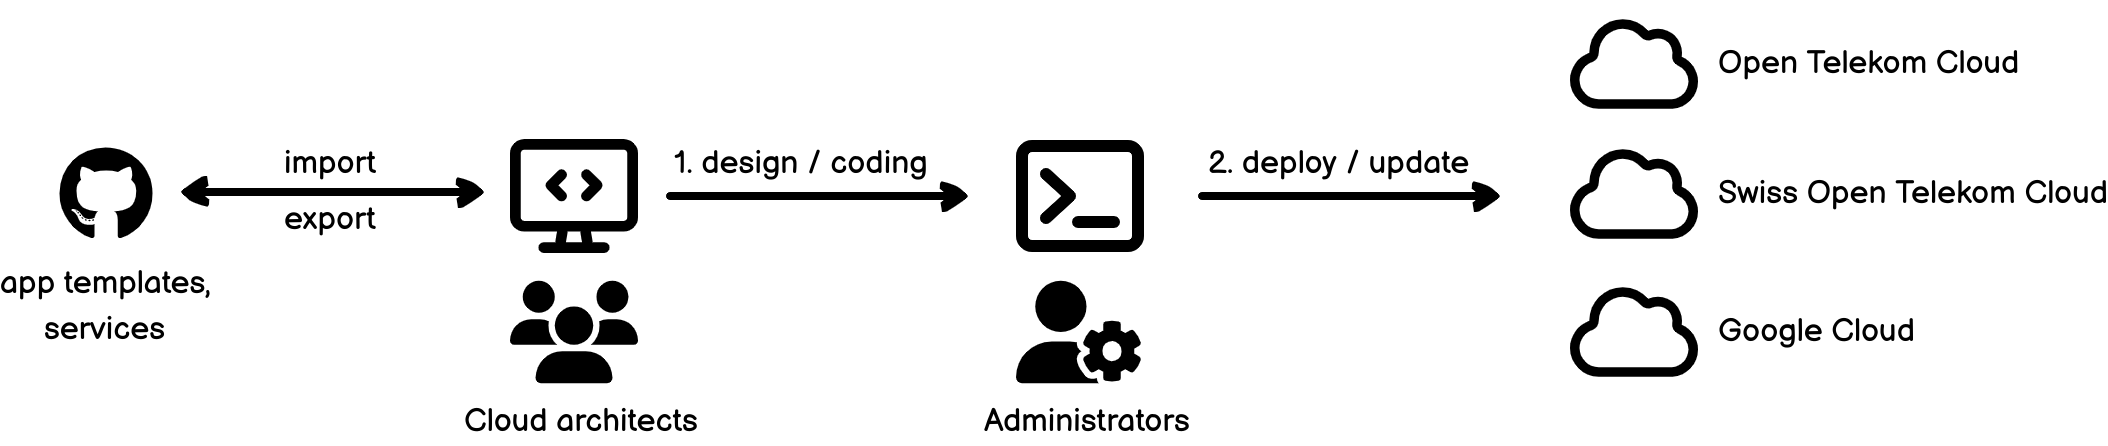
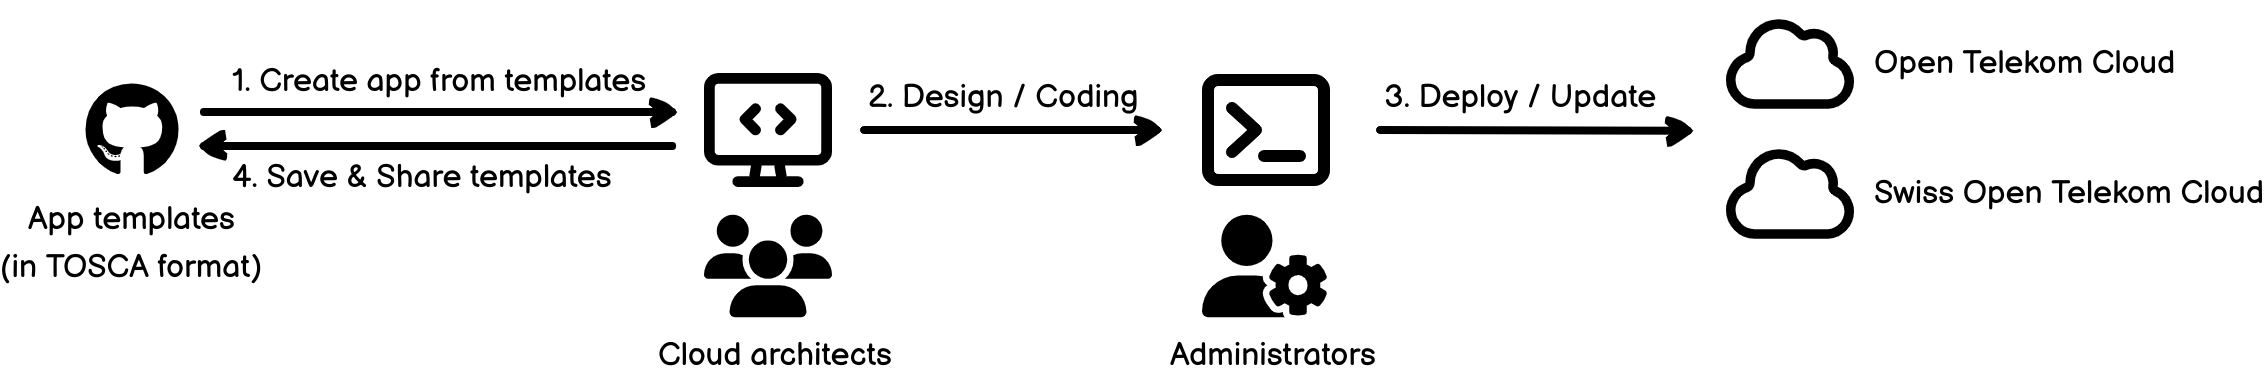
Update index page for premade template

Changed region(s): [[0.0, 0.0289, 1.0, 0.8684], [0.2158, 0.8974, 0.4009, 0.9842], [0.4625, 0.8974, 0.6167, 0.9842]]

diff --git a/umn/source/index.rst b/umn/source/index.rst
@@ -26,7 +26,12 @@ Quick introduction
 1. Overview
 ===========
 
-Cloud Create provides cloud developers a development and management platform to create applications on multi-cloud fast. In step 1, cloud architects design and develop the application for a tenant A. In step 2, an administrator of the tenant A deploys the application on Open Telekom Cloud, Swiss Cloud, and or Google Cloud.
+Cloud Create is a **free-to-use** Development and Management Platform, which enables cloud developers to create applications on Open Telekom Cloud **fast**.
+
+1. Cloud architects create applications from premade templates.
+2. They can visually design and adjust the application to fit their needs.
+3. An administrator deploys and updates the application on Open Telekom Cloud.
+4. Cloud architects can save a design as a private template for personal use or share it public with other users.
 
 .. figure:: /_static/images/features/overview.png
   :width: 900
@@ -35,57 +40,69 @@ Cloud Create provides cloud developers a development and management platform to 
 
 .. note::
   * Cloud architects and administrators can be the same user.
-  * Deployment on Swiss Open Telekom Cloud is an upcoming feature.
+  * Deployment on Swiss Open Telekom Cloud and the function "Save & Share templates" are upcoming features.
 
 1.1. How cloud architects design the application
 ------------------------------------------------
 
-Cloud architects can design the application either from scratch or from an **application template**. To design the application, they drag and drop the components together like lego bricks as in the following example:
+Cloud architects can design the application from scratch or from **premade templates**:
+
+.. figure:: /_static/images/features/overview-templates.png
+  :width: 800
+
+  Figure 2. Select an app template to start.
+
+They can quickly deploy a template or start a new design from it:
+
+.. figure:: /_static/images/features/overview-templates2.png
+  :width: 800
+
+  Figure 3. Quick deploy OpenShift or Design using this template.
+
+Cloud Create also comes up with a visual designer for less-coding or no-coding. Developers can drag and drop the components together like lego bricks as in the following example:
 
 .. figure:: /_static/images/features/overview-design.png
   :width: 800
 
-  Figure 2. An application topology with network, compute, ansible, bash scripts, and Grafana component.
+  Figure 4. An application example with network, compute, ansible, bash scripts, and Grafana component.
 
-* In the above example, (public/private) network and compute are **infrastructure components**. AnsibleTasks, Bash, and Grafana are **service components**.
-* By using the Ansible and Bash components, cloud architects can write code to install softwares on a compute directly. Grafana is a ready-to-use deployable software solution.
-* All components are provided by Open Telekom Cloud upon feature requests. In addition, users can define service components in TOSCA (i.e., a YAML file format) and import them to the designer. This import feature enables a **dynamic integration** with any software solutions (e.g., Grafana) and external SaaS with Open Telekom Cloud. More details on Section :ref:`How to define and import and a new service`.
+* In the above example, the network and compute are **infrastructure** components. AnsibleTasks, Bash, and Grafana are **service** components.
+* By using the Ansible and Bash components, developers can write code to execute on a compute directly.
+* Grafana is an example of a ready-to-use service available in the designer. Developers can define new services and import them to the designer as well. More details on Section :ref:`How to define and import and a new service`.
 
 .. note::
-   * All service components are `opensource and available on our Github <https://github.com/opentelekomcloud-blueprints/tosca-service-catalogs>`_.
+   * App templates and service components are `opensource and available on our Github <https://github.com/opentelekomcloud-blueprints/tosca-service-catalogs>`_.
 
 1.2. How administrators deploy the application
 ----------------------------------------------
 
-Before the deployment can start, administrators select a **Version**, provide deployment **Inputs**, which were designed by the cloud architects, and select a cloud provider (e.g., Open Telekom Cloud) to deploy. In addition, the workflow to deploy the components are auto-generated and ready for administrators to review.
+Before the deployment can start, administrators select a **Version**, provide **Inputs**, which were designed by the cloud architects, and select a cloud provider (e.g., Open Telekom Cloud) to deploy. In addition, administrators can review the auto-generated workflow before it starts.
 
 .. figure:: /_static/images/features/overview-deploy.png
   :width: 800
 
-  Figure 3. Administrators select Open Telekom Cloud (OTC) to deploy
+  Figure 5. Administrators select Open Telekom Cloud (OTC) to deploy
 
-During the deployment, users can interactively click on a workflow step and see **Terraform** is applied for the infrastructure components. For the service components, the deployment script of the service (e.g., Ansible) is applied on the target compute.
+During the deployment, administrators can interactively click on a workflow step and see **Terraform** is applied for the infrastructure components. For the service components, the deployment script of the service (e.g., Ansible) is applied on the target compute.
 
 .. figure:: /_static/images/features/deployment_logs.png
   :width: 800
 
-  Figure 4. An example Terraform is generated and applied for a Compute
+  Figure 6. An example Terraform is generated and applied for a Compute
 
 2. Why Cloud Create?
 ====================
 
-The following table shows the differences between the web console and the marketplaces of any cloud providers:
+The following table shows the differences between the Web console / other tools and Cloud Create:
 
 .. figure:: /_static/images/features/features_compare.png
   :width: 800
 
-  Figure 5. Features comparison
+  Figure 7. Features comparison
 
-Both the web console, marketplace, and Cloud Create can deploy one cloud service. However, an application nowadays consists of multiple cloud services but not just one. Furthermore, each application has individual needs to adapt to the cloud differently. The web console and marketplace can bring up one service up and running separately but cannot automate an application with multiple services.
+Both the Web console and Cloud Create can deploy one cloud service. However, an application nowadays consists of multiple cloud services but not just one. Furthermore, each application has individual needs to adapt to the cloud differently. The Web console can bring up one service up and running separately but cannot automate an application with multiple services.
 
 With Cloud Create, after creating an application from a template, you can modify the application to fit your individual needs. For example, one of our customer used Cloud Create to create their application from the OpenShift template, then they added a worker node with the GPU capability and wrote an Ansible script to deploy packages on the bastion host, etc. The given example shows that the modification can happen in every corner, from the cloud infrastructure to the software layer of your application. Finally, you can run update between versions on operation day 2 as well. To update between versions, Cloud Create auto-calculates the differences between the two versions and auto-generates the update workflow steps from one version to other one.
-
-In short, Cloud Create manages the whole life cycle of an application: from design, adaptation, to deploy, and update.
 
 3. New features
 ===============
@@ -95,20 +112,15 @@ OpenShift template (v2.13)
 
 Users can create a `Self-managed OpenShift Container Platform <https://www.redhat.com/en/technologies/cloud-computing/openshift/container-platform>`_ on Open Telekom Cloud from the :ref:`OpenShift`.
 
-.. figure:: /_static/images/features/openshift.png
-  :width: 800
-
-  Figure 6. OpenShift template
-
 4. FAQ
 ======
 
-4.1. What are the differences between Cloud Create and the web console
+4.1. What are the differences between Cloud Create and the Web console
 ----------------------------------------------------------------------
 
-With the `web console <https://console.otc.t-systems.com>`_, users can only create the cloud **infrastructure** manually. It means, they can create a network, a storage, a VM separately but without automation.
+With the `Web console <https://console.otc.t-systems.com>`_, users can only create the cloud infrastructure manually. It means, they can create a network, a storage, a VM separately but without automation.
 
-On the other hand, Cloud Create enables developers to design and automate the deployment of the whole application, which includes the cloud infrastructure and the **services** (i.e., not just the cloud infrastructure). In addition, developers can design the application in various versions and run update between them. Finally, Cloud Create provides application templates (e.g., OpenShift) to re-use and extend.
+On the other hand, Cloud Create enables developers to design and automate the deployment of the whole application including the cloud infrastructure and services. In addition, developers can design the application in various versions and run update between them. Finally, Cloud Create provides premade templates (e.g., OpenShift) to re-use and extend.
 
 4.2. How can I login in to Cloud Create
 ---------------------------------------
@@ -117,8 +129,8 @@ You can log in to Cloud Create using an IAM user account with the **Tenant Admin
 
 If you do not have a user account in the IAM, see :ref:`How to login`.
 
-4.3. Which components are supported for Open Telekom Cloud and Google Cloud
----------------------------------------------------------------------------
+4.3. Which components are supported
+-----------------------------------
 
 An overview of all supported components is available in Section :ref:`Components overview`.
 
@@ -127,7 +139,7 @@ An overview of all supported components is available in Section :ref:`Components
 
 Cloud Create is based on two opensource projects Application Lifecycle Enablement for Cloud (Alien4cloud) and Ystia Orchestrator (Yorc). At Open Telekom Cloud, we further integrate it with OpenStack and Google Cloud, provide an easy-to-use UI, added features (e.g., secrets management, deployment update, OpenShift template, etc.), and enforce the strictest Privacy and Security Assessment (PSA) process of Deutsche Telekom.
 
-All application templates and service components are opensource and available on `our Github <https://github.com/opentelekomcloud-blueprints/tosca-service-catalogs>`_. You can create pull requests to add more components and fix bugs.
+All premade templates and service components are opensource and available on `our Github <https://github.com/opentelekomcloud-blueprints/tosca-service-catalogs>`_. You can create pull requests to add more components and fix bugs.
 
 4.5. Which Terraform version do you use
 ---------------------------------------

diff --git a/umn/source/register.rst b/umn/source/register.rst
@@ -8,14 +8,12 @@ How to create a user account & login
 ===============================
 
 * Go to: https://designer.otc-service.com
-* Login using an IAM user account with the **Tenant Administrator** role (*). This is the same credentials when you log in to the web console, **not the ICU account**.
+* Login using an IAM user account with the **Tenant Administrator** role. This is the same credentials when you log in to the web console, **not the ICU account**.
 
 .. figure:: /_static/images/register-login.png
   :width: 400
 
   Figure 1. Login to Cloud Create using domain name, username, and password
-
-.. note:: (*) To design and deploy the application, login with a user account with the role **Tenant Administrator**. Alternatively, if you only need to design the application, login with a user account with the role **Tenant Guest**. This is particular useful when you want a cloud architect to design the application for you but do not allow him or her to deploy anything in your tenant.
 
 You cannot login?
 -----------------
@@ -43,7 +41,7 @@ In case you do not have an IAM user account, please ask your domain administrato
 2.1. Create a project (optional, if you don't have one)
 -------------------------------------------------------
 
-* Login to the `web console <https://console.otc.t-systems.com>`_.
+* Login to the `Web console <https://console.otc.t-systems.com>`_.
 * Go to: **Identity Management**
 
 .. figure:: /_static/images/register-iam-button.png
@@ -90,8 +88,6 @@ In case you do not have an IAM user account, please ask your domain administrato
   :width: 900
 
   Figure 6. Select role Tenant Administrator for the group
-
-.. tip:: If you want a user to design the application for you but do not allow him or her to deploy anything in your project, select the role **Tenant Guest** instead.
 
 * In **Step 2. Select Scope**, choose **Region-specific projects**.
 * Search for the project `eu-de_test` and select it.

diff --git a/umn/source/releases.rst b/umn/source/releases.rst
@@ -4,6 +4,16 @@
 Releases
 ********
 
+OpenShift template (v2.13)
+--------------------------
+
+Users can create a `Self-managed OpenShift Container Platform <https://www.redhat.com/en/technologies/cloud-computing/openshift/container-platform>`_ on Open Telekom Cloud from the :ref:`OpenShift`.
+
+.. figure:: /_static/images/features/openshift.png
+  :width: 800
+
+  Figure 1. OpenShift template
+
 Deployment history (released in v2.12)
 --------------------------------------
 
@@ -12,4 +22,4 @@ Users can view deployment logs in the **History** so they can audit all actions 
 .. figure:: /_static/images/features/deployment_history.png
   :width: 800
 
-  Figure 7. Deployment history shows output of the Bash script 'HelloWorld' executed on a compute.
+  Figure 2. Deployment history shows output of the Bash script 'HelloWorld' executed on a compute.

diff --git a/umn/source/components_overview.rst b/umn/source/components_overview.rst
@@ -9,7 +9,7 @@ The following table shows an overview of all components that you can use to desi
 Network
 =======
 
-.. note:: Cloud Gateway is not yet supported in Google Cloud so a private compute cannot access the Internet. It means you cannot install packages from a public repository for a private compute.
+.. note:: Cloud Gateway is not yet supported in Google Cloud. Without the Cloud Gateway, a private compute cannot access the Internet. It means you cannot install packages from a public repository on a private compute.
 
 ======================  ===========================================================================================  ====================  ==============
 Components              Scenarios                                                                                    Open Telekom Cloud    Google Cloud
